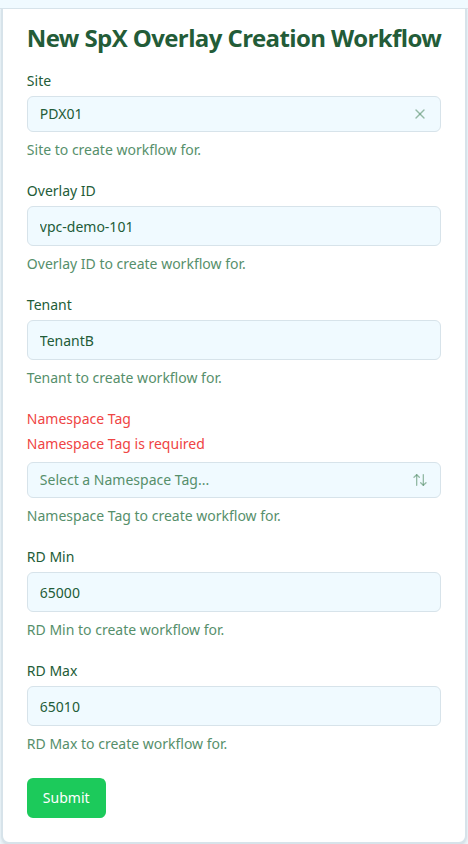
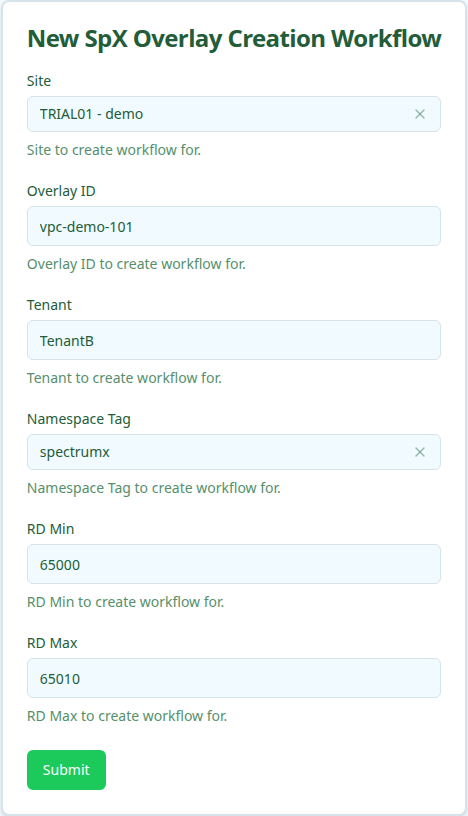
fix spx mock data

diff --git a/ui/tests/docs-screenshots/workflowForms.spec.ts b/ui/tests/docs-screenshots/workflowForms.spec.ts
@@ -178,6 +178,10 @@ const DOC_TENANTS: ParameterOption[] = [
   { id: "TenantB", name: "TenantB" },
 ];
 
+const DOC_NAMESPACE_TAGS: ParameterOption[] = [
+  { id: "spectrumx", name: "spectrumx" },
+];
+
 const DOC_DEVICES_BY_SITE: Record<string, Device[]> = {
   [AIR_SITE]: [
     {
@@ -526,7 +530,7 @@ const WORKFLOW_SCREENSHOTS: WorkflowScreenshot[] = [
       namespace: "spectrumx",
       rd_max: "65010",
       rd_min: "65000",
-      site: PDX_SITE,
+      site: AIR_SITE,
       tenant: "TenantB",
     },
     title: "New SpX Overlay Creation Workflow",
@@ -537,7 +541,7 @@ const WORKFLOW_SCREENSHOTS: WorkflowScreenshot[] = [
     query: {
       overlay_id: DEMO_VPC_ID,
       namespace: "spectrumx",
-      site: PDX_SITE,
+      site: AIR_SITE,
     },
     title: "New SpX Overlay Deletion Workflow",
   },
@@ -545,11 +549,11 @@ const WORKFLOW_SCREENSHOTS: WorkflowScreenshot[] = [
     fileName: "spxoverlaytenantchangeworkflow-form.png",
     path: "/workflows/spxoverlaytenantchangeworkflow/form",
     query: {
-      "device-id": PDX_CUMULUS_ID,
+      "device-id": AIR_TAN_LEAF_01_ID,
       overlay_id: DEMO_VPC_ID,
       namespace: "spectrumx",
       port_names: "swp1, swp2",
-      site: PDX_SITE,
+      site: AIR_SITE,
     },
     title: "New SpX Overlay Tenant Change Workflow",
   },
@@ -691,6 +695,10 @@ async function setupDocsMocks(page: Page): Promise<void> {
 
   await page.route(/.*\/v1\/parameter\/tenant/, async (route) => {
     await fulfillJson(route, DOC_TENANTS);
+  });
+
+  await page.route(/.*\/v1\/parameter\/namespace-tag/, async (route) => {
+    await fulfillJson(route, DOC_NAMESPACE_TAGS);
   });
 
   await page.route(/^.*\/v1\/parameter\/device(\?.*)?$/, async (route) => {
